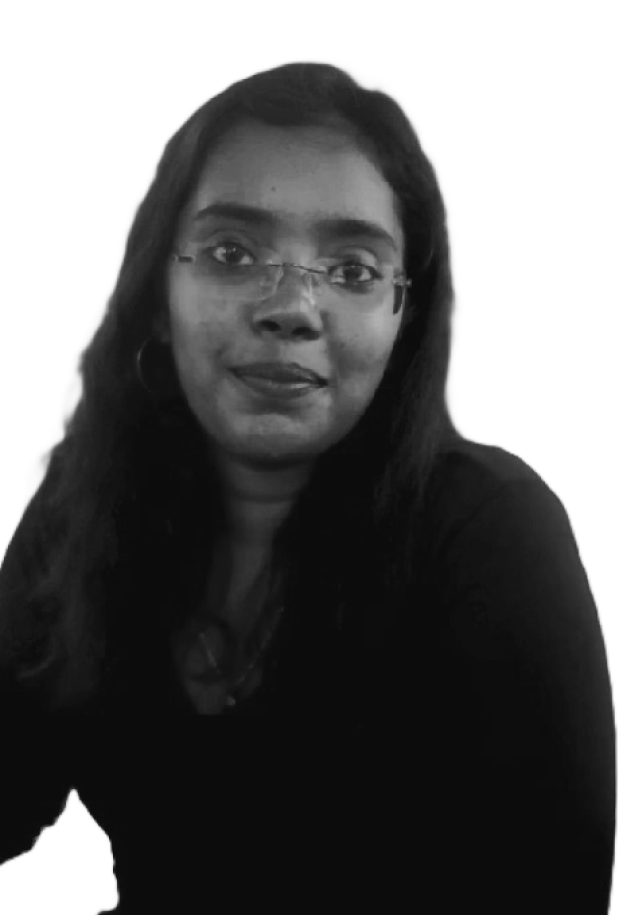
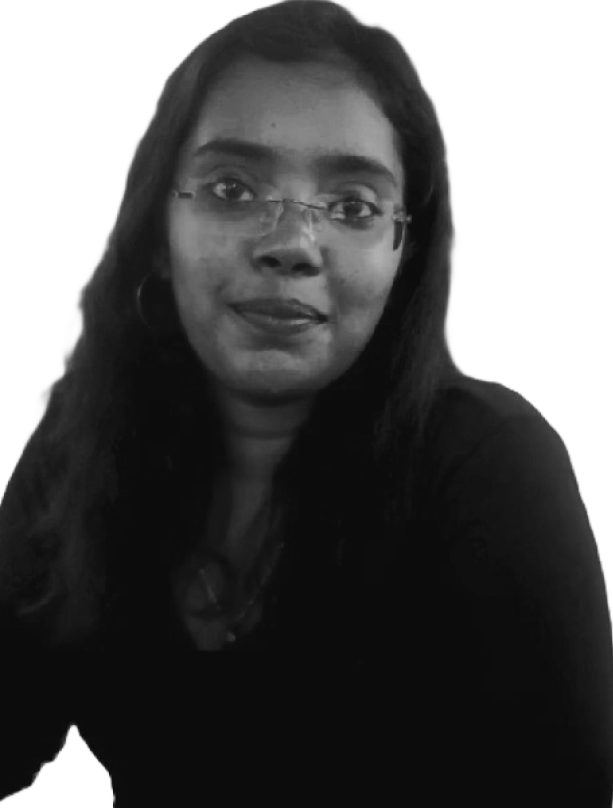
Homepage  styling is completed

diff --git a/portfolio/src/Styles/Home.css b/portfolio/src/Styles/Home.css
@@ -1,0 +1,74 @@
+.home{
+    display: flex;
+    justify-content: center;
+    align-items: center;
+    width: 100%;
+    height: 80vh;
+    background: url(../assets/homePagesubbackgroundImg.png);
+    background-position: center;
+    background-repeat: no-repeat;
+    background-size: contain;
+}
+
+.profile-image1{
+    width: 320px;
+    height: 460px;
+    display: flex;
+    align-items: center;
+    justify-content: center;
+}
+
+.profile-image1>img{
+    width: 100%;
+    height: auto;
+    max-width: 320px;
+    max-height: 460px;
+}
+
+.home-content{
+    padding-left: 30px;
+}
+
+#home-wlcm{
+    color: var(--secondary-color);
+    font-size: 25px;
+    font-weight: 400;
+}
+
+#home-name{
+    padding: 10px 0px;
+    font-size: 60px;
+    font-weight: 400;
+}
+
+#home-designation{
+    color: var(--highlight-text-color);
+    font-size: 20px;
+}
+
+@media (max-width: 680px) {
+    .home{
+        height: auto;
+        padding: 50px 20px;
+        background-size: cover;
+    }
+
+    .profile-image1{
+        width: 150px;
+        height: auto;
+        border: solid 1px white;
+    }
+
+    #home-wlcm{
+        color: var(--secondary-color);
+        font-size: 15px;
+    }
+    
+    #home-name{
+        font-size: 40px;
+    }
+    
+    #home-designation{
+        font-size: 15px;
+    }
+}

diff --git a/portfolio/src/Pages/About.jsx b/portfolio/src/Pages/About.jsx
@@ -1,5 +1,6 @@
-import '../Styles/About.css';
 import proImg from '../assets/img2.png';
+import '../Styles/About.css';
+import '../Styles/Global.css'
 
 const About = () => {
 
@@ -22,7 +23,7 @@ const About = () => {
           </u>
         </h1>
         <div id="about-sec">
-            <div className="second-profile-image">
+            <div className="profile-image2">
                 <img src={proImg} alt="Profile Image" />
             </div>
             <div className="about-content">
@@ -41,9 +42,3 @@ const About = () => {
 
 export default About;
 
-
-{/* style={{color: '#F4B675'}}
-  <h3 style={{color: '#ffffff'}}>I'm  ARTHI</h3> 
-<h3 style={{color: '#C3986B'}}>Full-Stack Developer with Design Skills</h3>
-<p style={{color: '#868686', paddingBottom: '20px' }}>Web development professional with a strong track record in mentoring, project leadership, Cybersecurity and technical expertise. Skilled in full-stack development, various programming languages, and security practices. Committed to continuous learning and contributing to advanced projects in both fields.</p>
-<p style={{color: '#868686'}} */}

diff --git a/portfolio/src/Pages/Contact.jsx b/portfolio/src/Pages/Contact.jsx
@@ -1,12 +1,13 @@
 import { useState } from "react";
 import emailjs from "@emailjs/browser";
-import "../Styles/Contact.css";
 import insta from "../assets/insta.png";
 import github from "../assets/github.png";
 import linkedin from "../assets/linkedin.png";
 import twitter from "../assets/twitter.png";
 import email from "../assets/email.png";
 import phone from "../assets/phonecall.png";
+import "../Styles/Contact.css";
+import '../Styles/Global.css'
 
 const Contact = () => {
     const [formData, setFormData] = useState({
@@ -114,7 +115,7 @@ const Contact = () => {
                                 onChange={handleChange}
                             ></textarea>
 
-                            <button type="submit" disabled={loading}>
+                            <button id="send-btn" type="submit" disabled={loading}>
                                 {loading ? "Sending..." : "Send"}
                             </button>
                         </form>

diff --git a/portfolio/src/Pages/Home.jsx b/portfolio/src/Pages/Home.jsx
@@ -1,23 +1,21 @@
 import myFirstProfileImg from '../assets/img1.png';
-
+import '../Styles/Global.css'
 import '../Styles/Home.css';
 
 function Home() {
   return (
-    <>
     <div className='container'>
-      <section className='Home'>
-        <div className='my-first-image'>
+      <section className='home'>
+        <div className='profile-image1'>
           <img src={myFirstProfileImg} alt="prof-img" />
         </div>
         <div className="home-content">
-          <h3>Hi, I'm </h3> 
-          <h1> ARTHI R</h1>
-          <p>Full-Stack Developer with Design Skills</p>
+          <h3 id='home-wlcm'>Hi, I'm </h3> 
+          <h1 id='home-name'> ARTHI R</h1>
+          <p id='home-designation'>Full-Stack Developer with Design Skills</p>
         </div>
       </section>
-      </div>
-    </>
+    </div>
   )
 }
 

diff --git a/portfolio/src/Styles/Navbar.css b/portfolio/src/Styles/Navbar.css
@@ -60,12 +60,15 @@
     .navbar-links {
         display: none;
         flex-direction: column;
-        padding: 10px 0px;
         text-align: center;
     }
     
     .navbar-links li {
         padding: 10px 0;
+    }
+    
+    .navbar-links li a{
+        font-size: 15px;
     }
 
     .navbar-links a:hover{

diff --git a/portfolio/src/Styles/Global.css b/portfolio/src/Styles/Global.css
@@ -30,3 +30,12 @@ body{
     padding: 0 20px;
     background: var(--background-color);
 }
+
+#download-btn, #send-btn{
+    background: var(--secondary-color);
+    font-size: 20px;
+    text-align: center;
+    border: none;
+    border-radius: 100px;
+    cursor: pointer;
+}

diff --git a/portfolio/src/Pages/Projects.jsx b/portfolio/src/Pages/Projects.jsx
@@ -1,4 +1,5 @@
 import know_more from '../assets/know_more.png';
+import '../Styles/Global.css'
 
 function Project(){
     const projectsData = [

diff --git a/portfolio/src/Pages/Resume.jsx b/portfolio/src/Pages/Resume.jsx
@@ -1,3 +1,5 @@
+import '../Styles/Global.css'
+
 
 function Resume(){
     const experienceData = [

diff --git a/portfolio/src/Pages/Services.jsx b/portfolio/src/Pages/Services.jsx
@@ -1,3 +1,5 @@
+import '../Styles/Global.css'
+
 
 function Services(){
     const servicesData = [

diff --git a/portfolio/src/Pages/Skills.jsx b/portfolio/src/Pages/Skills.jsx
@@ -1,3 +1,5 @@
+import '../Styles/Global.css'
+
 
 const Skills = () => {
   const skillsData = {

diff --git a/portfolio/src/Styles/About.css b/portfolio/src/Styles/About.css
@@ -1,0 +1,3 @@
+#download-btn{
+    padding: 10px 25px;
+}

diff --git a/portfolio/src/Styles/Contact.css b/portfolio/src/Styles/Contact.css
@@ -1,0 +1,3 @@
+#send-btn{
+    padding: 5px 20px;
+}
